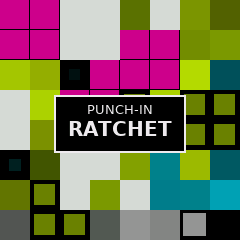
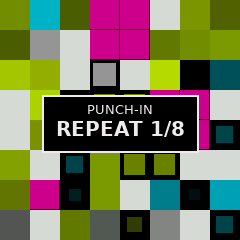
FILL on the second white key, machine-like fills, FREEZE takes the kick
- FILL replaces RATCHET (its speeding-up roll sounded cheesy): tapped, a fill on the next beat;
  held (or held by OCT), a new one every beat. Alongside the punch-ins; the kick keeps going.
- Fills, the automatic ones too, are now one beat, on the grid, never accelerating: a broken
  snare in 32nds, a perc run, hats in 32nds, snare and perc trading 16ths, snare triplets.
- FREEZE catches the kick in its room too, faded in and out over ~7 ms.
- Tests for FILL; manual, README, site and CLAUDE.md updated.

Claude-Session: https://claude.ai/code/session_01BZyVyPz8sguYwRVQyNrSw4

diff --git a/app/dsp/engine.c b/app/dsp/engine.c
@@ -4,7 +4,7 @@
  * 4 ms, filters' settings move in small steps every few samples. */
 #include "engine.h"
 
-const char *const PU_NAME[NUM_PU] = { "", "LOW-PASS", "RATCHET", "REPEAT 1/8", "REPEAT 1/16", "REPEAT 1/32", "GLITCH",
+const char *const PU_NAME[NUM_PU] = { "", "LOW-PASS", "FILL", "REPEAT 1/8", "REPEAT 1/16", "REPEAT 1/32", "GLITCH",
     "PITCH DOWN", "PITCH UP", "TAPE MASH", "REVERSE", "FREEZE", "SWELL", "CRUSH", "KILL KICK", "REPEAT 1/12", "HIGH-PASS" };
 
 /* the pool: the engine and the screen's canvas (29 KB) must fit the FM-1's 336 KB, with room for fm1-base's own */
@@ -180,16 +180,34 @@ static float hit_pan(Engine *e, int p)
     return clamp01(pan);
 }
 
-/* a fill: a bouncing ball (the gaps shrinking) on the snare, or a run down the perc, or the hats rolling */
+/* a fill: one beat, machine-like and on the grid (never speeding up): a broken snare in 32nds, a run down the perc in
+ * 16ths, hats in 32nds accented in threes, the snare and perc trading 16ths, or snare triplets building. The kick
+ * keeps the groove under it */
 static void fill_roll(Engine *e, uint32_t t0)
 {
-    int kind = rng_int(&e->rng, 3);
-    float off = 0, gap = 20.0f, v = 0.75f;
-    for (int k = 0; k < 14 && off < (float)TPB; k++) {
-        int p = kind == 0 ? P_SNARE : kind == 1 ? P_PERC : P_HATS;
-        HitP hp; make_hit(e, p, v, kind == 1 ? (float)(6 - k) : 0.0f, kind == 0 && (k & 1), &hp);
-        push_ev(&e->P[p], t0, off, &hp, hit_pan(e, p), 0);
-        off += gap; gap *= 0.8f; v *= kind == 2 ? 1.03f : 0.93f;
+    int kind = rng_int(&e->rng, 5);
+    switch (kind) {
+    case 0: for (int k = 0; k < 8; k++) if (k == 0 || rng_chance(&e->rng, 0.6f)) {
+            HitP hp; make_hit(e, P_SNARE, k % 2 ? 0.45f + 0.2f * rng_f(&e->rng) : 0.8f, 0, k % 4 == 3, &hp);
+            push_ev(&e->P[P_SNARE], t0, (float)(k * 12), &hp, hit_pan(e, P_SNARE), 0);
+        } break;
+    case 1: for (int k = 0; k < 4; k++) {
+            HitP hp; make_hit(e, P_PERC, 0.85f - 0.1f * (float)k, (float)(4 - 2 * k), 0, &hp);
+            push_ev(&e->P[P_PERC], t0, (float)(k * 24), &hp, hit_pan(e, P_PERC), 0);
+        } break;
+    case 2: for (int k = 0; k < 8; k++) {
+            HitP hp; make_hit(e, P_HATS, k % 3 == 0 ? 0.9f : 0.5f, 0, 0, &hp);
+            push_ev(&e->P[P_HATS], t0, (float)(k * 12), &hp, hit_pan(e, P_HATS), 0);
+        } break;
+    case 3: for (int k = 0; k < 4; k++) {
+            int p = k % 2 ? P_PERC : P_SNARE;
+            HitP hp; make_hit(e, p, 0.8f, p == P_PERC ? (float)(2 - k) : 0.0f, 0, &hp);
+            push_ev(&e->P[p], t0, (float)(k * 24), &hp, hit_pan(e, p), 0);
+        } break;
+    default: for (int k = 0; k < 6; k++) {
+            HitP hp; make_hit(e, P_SNARE, 0.4f + 0.1f * (float)k, 0, 0, &hp);
+            push_ev(&e->P[P_SNARE], t0, (float)(k * 16), &hp, hit_pan(e, P_SNARE), 0);
+        } break;
     }
     e->fill_until = t0 + TPB;
 }
@@ -385,6 +403,10 @@ void engine_block_begin(Engine *e, int nsub)
     for (int p = 0; p < NPARTS; p++) if (e->off_left[p] && --e->off_left[p] == 0 && e->midi) e->midi(0x08u | (0x80u | e->midi_ch) << 8 | (uint32_t)e->off_note[p] << 16);
     float span = r * (float)n, endf = e->frac + span;
     uint32_t end = e->tick + (uint32_t)endf;      /* (the block's last tick, whole) */
+    if (e->playing && e->fill_want) {           /* the FILL key: a fill on each beat while it's held, from the next */
+        uint32_t nb = (e->tick / TPB + 1u) * TPB;
+        if (nb != e->mfill_last && nb <= end + (uint32_t)LOOK + 1u) { e->mfill_last = nb; fill_roll(e, nb); }
+    }
     if (e->playing) {
         /* the bars turning */
         while (e->last_bar * BAR + BAR <= end) { e->last_bar++; bar_turned(e, e->last_bar); }
@@ -528,10 +550,10 @@ static float grain_rate(Engine *e)            /* a grain's speed: mostly as it w
 
 static void punch_engage(Engine *e, int pu)
 {
-    e->pu = pu; e->rpos = 0; e->ps0 = e->pw; e->rnext = 0; e->rat_left = 2;
+    e->pu = pu; e->rpos = 0; e->ps0 = e->pw; e->rnext = 0;
     float beat = 60.0f / e->bpm * SR, cap = (float)(PUNCH_BUF - 256);
-    /* div: of a bar (1/8 an eighth). RATCHET starts on an eighth and doubles, REVERSE plays an eighth backwards */
-    float div = pu == PU_REP8 || pu == PU_RATCHET || pu == PU_REVERSE || pu == PU_GLITCH ? 0.125f : pu == PU_REP16 ? 0.0625f
+    /* div: of a bar (1/8 an eighth). REVERSE plays an eighth backwards */
+    float div = pu == PU_REP8 || pu == PU_REVERSE || pu == PU_GLITCH ? 0.125f : pu == PU_REP16 ? 0.0625f
               : pu == PU_REP32 ? 0.03125f : pu == PU_REP12 ? 1.0f / 12.0f : 0.25f;
     e->rlen = fm_minf(beat * div * 4.0f, cap);
     if (pu == PU_MASH) { e->m_d = 0.012f * SR + 64.0f; e->m_x = e->m_tgt = 0; e->m_g = e->m_gt = 1.0f; e->m_cnt = (int)(0.05f * SR); e->m_lp[0] = e->m_lp[1] = 0; }
@@ -543,11 +565,11 @@ static void punch_engage(Engine *e, int pu)
         if (to > half) to = half;
         e->swell_len = e->swell_left = (int)to;
     }
-    /* the repeats, RATCHET, GLITCH and REVERSE are held to the grid: the slice starts on the last line of its own grid
+    /* the repeats, GLITCH and REVERSE are held to the grid: the slice starts on the last line of its own grid
      * (an eighth, a sixteenth...) before the key, so it loops in time with the groove however late it was pressed. The
      * memory already holds the slice up to now: it plays on as it is (nothing jumps) to the slice's end, then loops (one
      * unbroken stretch: no seam, no click). REVERSE plays the eighth before that line backwards, in step with the grid */
-    int slice = pu == PU_RATCHET || pu == PU_REP8 || pu == PU_REP16 || pu == PU_REP32 || pu == PU_REP12 || pu == PU_GLITCH || pu == PU_REVERSE;
+    int slice = pu == PU_REP8 || pu == PU_REP16 || pu == PU_REP32 || pu == PU_REP12 || pu == PU_GLITCH || pu == PU_REVERSE;
     float ph = 0;                                /* samples since the slice's grid line */
     if (slice && e->playing && e->rlen < cap) {
         uint32_t gt = (uint32_t)((float)TPB * 4.0f * div + 0.5f);   /* (its grid in ticks: 48 an eighth) */
@@ -643,6 +665,10 @@ void engine_block_mix(Engine *e, float *outL, float *outR)
         outL[i] = L; outR[i] = R;
         /* the room's input: through the gated room's pre-delay, held a moment at FREEZE (a punch-in) */
         float feed = 1.0f - fz * (1.0f - e->frz_feed);
+        /* FREEZE takes the kick in too (the kick is never sent to the room otherwise): while it's catching its moment,
+         * faded in and out over ~7 ms */
+        e->frz_k += ((e->pu == PU_FREEZE && !e->pu_rel && e->frz_feed > 0 ? 1.0f : 0.0f) - e->frz_k) * 0.003f;
+        if (e->frz_k > 1e-5f) { rl += kL * 0.7f * e->frz_k; rr += kR * 0.7f * e->frz_k; } else e->frz_k = 0;
         if (pre) {
             float m = (rl + rr) * 0.5f;
             e->room_buf[e->room_w] = to16(m);
@@ -801,10 +827,6 @@ void engine_block_mix(Engine *e, float *outL, float *outR)
                 e->rpos += 1.0f;
                 if (e->rpos >= len) {
                     e->rpos -= len;                /* (the fraction kept: hours of repeats stay on the grid) */
-                    if (pu == PU_RATCHET && --e->rat_left <= 0 && e->rlen > beat * 0.0625f * 1.5f) {
-                        e->rlen *= 0.5f; e->rat_left = 4;   /* RATCHET: eighths, sixteenths for a beat, 32nds for half, then 64ths */
-                        if (e->rpos >= e->rlen) e->rpos = 0;
-                    }
                     if (pu == PU_GLITCH) {        /* GLITCH: a new length each pass (within what it kept) */
                         static const float GL[5] = { 0.125f, 0.0625f, 0.03125f, 1.0f / 12.0f, 1.0f / 24.0f };
                         e->rpos = 0; e->rlen = fm_minf(beat * GL[rng_int(&e->rng, 5)] * 4.0f, (float)e->pu_cap);

diff --git a/app/app.c b/app/app.c
@@ -627,11 +627,11 @@ static void page_to(int pg)
 }
 
 /* ------------------------------------------------------------------ the keys: punch-ins and randomisers
- * White keys, low to high: HIGH-PASS, RATCHET, REPEAT 1/8, 1/12, 1/16, 1/32, GLITCH, PITCH DOWN, PITCH UP, TAPE MASH,
+ * White keys, low to high: HIGH-PASS, FILL, REPEAT 1/8, 1/12, 1/16, 1/32, GLITCH, PITCH DOWN, PITCH UP, TAPE MASH,
  * REVERSE, FREEZE, SWELL, CRUSH, KILL KICK, LOW-PASS. The latest held plays (the filters alongside, their own).
  * Black keys, in their groups: KICK's TONE, WEIGHT, ENTROPY; SNARE's WEIGHT, ENTROPY; PERC's TONE, WEIGHT, ENTROPY;
  * HATS' WEIGHT, ENTROPY; the top one every part's three. Held, each hit of the part takes new values. */
-static const uint8_t PU_KEY[16] = { PU_HPF, PU_RATCHET, PU_REP8, PU_REP12, PU_REP16, PU_REP32, PU_GLITCH, PU_PDOWN, PU_PUP, PU_MASH,
+static const uint8_t PU_KEY[16] = { PU_HPF, PU_FILL, PU_REP8, PU_REP12, PU_REP16, PU_REP32, PU_GLITCH, PU_PDOWN, PU_PUP, PU_MASH,
                                     PU_REVERSE, PU_FREEZE, PU_SWELL, PU_CRUSH, PU_KILL, PU_LPF };
 static const struct { int8_t part; uint8_t bits; } RND_KEY[11] = {
     { P_KICK, 1 }, { P_KICK, 2 }, { P_KICK, 4 }, { P_SNARE, 2 }, { P_SNARE, 4 }, { P_PERC, 1 }, { P_PERC, 2 }, { P_PERC, 4 },
@@ -682,12 +682,12 @@ static void keys_input(uint32_t keys, uint32_t btn)
     for (int i = 0; i < 16; i++) {
         int kk = WK[i]; uint32_t b = 1u << kk;
         if (kk >= NKEYS) continue;
-        int pu = PU_KEY[i], filt = pu == PU_HPF || pu == PU_LPF;
+        int pu = PU_KEY[i], filt = pu == PU_HPF || pu == PU_LPF || pu == PU_FILL;   /* (the filters and FILL: alongside the punch-in) */
         if ((keys & b) && !(ui.keys & b)) {      /* pressed */
             if (hold) {                          /* a hold: one punch-in held at a time (they never play together: pitch up and
                                                   * down would cancel, two loops fight), so it takes the place of the one
                                                   * before; the two filters are held alongside it */
-                if (!filt) for (int k = 1; k < 15; k++) if (k != i && (ui.lat_w >> k & 1u)) { ui.lat_w &= (uint16_t)~(1u << k); if (!(keys >> WK[k] & 1u)) pu_drop(k); }
+                if (!filt) for (int k = 2; k < 15; k++) if (k != i && (ui.lat_w >> k & 1u)) { ui.lat_w &= (uint16_t)~(1u << k); if (!(keys >> WK[k] & 1u)) pu_drop(k); }
                 ui.lat_w |= (uint16_t)(1u << i); ui.lat_w_until[i] = hold == 2 ? 0 : loop_end();
                 ui.lat_w_dep[i] = key_depth(kk, i == 0); ui.oct_used[hold - 1] = 1;
                 pop(hold == 2 ? "HELD" : "HELD TO THE LOOP'S END", PU_NAME[pu], C_TXT);
@@ -703,6 +703,7 @@ static void keys_input(uint32_t keys, uint32_t btn)
     int top = ui.pu_n ? ui.pu_order[ui.pu_n - 1] : -1;
     eng.pu_want = top >= 0 ? PU_KEY[top] : 0;
     eng.pu_press = top < 0 ? 0.0f : keys >> WK[top] & 1u ? key_depth(WK[top], 1) : ui.lat_w_dep[top];   /* (how hard: TAPE MASH's depth) */
+    eng.fill_want = (keys >> WK[1] & 1u) || (ui.lat_w >> 1 & 1u);   /* FILL: a fill each beat while held */
     eng.pu_hpw = keys >> WK[0] & 1u ? 1.0f + key_depth(WK[0], 1) : ui.lat_w & 1u ? 1.0f + ui.lat_w_dep[0] : 0.0f;          /* (the bottom key: pressure) */
     eng.pu_lpw = keys >> WK[15] & 1u ? 1.0f + key_depth(WK[15], 0) : ui.lat_w >> 15 & 1u ? 1.0f + ui.lat_w_dep[15] : 0.0f;   /* (the top: how hard it was struck) */
     uint8_t bits[NPARTS] = { 0, 0, 0, 0 }; float dep[NPARTS] = { 0, 0, 0, 0 };
@@ -1176,6 +1177,7 @@ int app_expect(const char *what, int *got)
     else if (!strcmp(what, "hist")) *got = hist_n;
     else if (!strcmp(what, "pu")) *got = eng.pu;
     else if (!strcmp(what, "pu_want")) *got = eng.pu_want;
+    else if (!strcmp(what, "fill_want")) *got = eng.fill_want;
     else if (!strcmp(what, "hpf")) *got = eng.pu_hpw > 0;
     else if (!strcmp(what, "lpf")) *got = eng.pu_lpw > 0;
     else if (!strcmp(what, "heard")) *got = (int)eng.ai_notes;

diff --git a/app/dsp/engine.h b/app/dsp/engine.h
@@ -39,7 +39,7 @@ typedef struct {
 #define DLY_BUF 16384                    /* the delay: each side's line (0.37 s) */
 #define PUNCH_BUF 16384                  /* the punch-ins' memory: the last 0.37 s, stereo (an eighth down to 82 BPM) */
 
-enum { PU_NONE, PU_LPF, PU_RATCHET, PU_REP8, PU_REP16, PU_REP32, PU_GLITCH, PU_PDOWN, PU_PUP, PU_MASH, PU_REVERSE,
+enum { PU_NONE, PU_LPF, PU_FILL, PU_REP8, PU_REP16, PU_REP32, PU_GLITCH, PU_PDOWN, PU_PUP, PU_MASH, PU_REVERSE,
        PU_FREEZE, PU_SWELL, PU_CRUSH, PU_KILL, PU_REP12, PU_HPF, NUM_PU };
 extern const char *const PU_NAME[NUM_PU];
 
@@ -72,7 +72,7 @@ struct Engine {
     int pu, pu_rel; float pu_mix; int16_t pb[2][PUNCH_BUF]; int pw, ps0, pu_frozen;
     float rpos, rlen, rnext; float lp_c, hp_c; Svf plp[2], php[2]; int pf_cnt;
     int pu_cap, pu_fwd, rec_since;       /* capturing forward: how much so far; the memory's clean run since it last froze */
-    int rat_left;                        /* RATCHET: passes left before it doubles its speed */
+    volatile int fill_want; uint32_t mfill_last;   /* the FILL key held (or held by OCT): a fill each beat; the last beat filled */
     float m_d, m_x, m_tgt, m_g, m_gt, m_wow, m_flt, m_lp[2]; int m_cnt;   /* TAPE MASH: the tape's delay, a catch, a dropout, wow, flutter */
     Shifter shf[2]; float crush_h, crush_v[2]; float kill_g; float frz; int swell_left, swell_len;
     /* MIDI out */
@@ -94,7 +94,7 @@ struct Engine {
     uint32_t kick_bar, kick_last; int kick_in_bar;   /* the kick held firm: its hits this bar, its last step */
     uint32_t last_bar, fill_until; int nblk;
     uint8_t off_note[NPARTS]; int off_left[NPARTS];   /* MIDI out: each part's note, blocks until its note-off */
-    float frz_feed, sw_dip;
+    float frz_feed, sw_dip, frz_k;   /* (frz_k: the kick into FREEZE's room, glided)*/
     /* the black keys: randomisers, a new value each hit (sample and hold): which of TONE, WEIGHT, ENTROPY (bits 0-2)
      * each part has held, and how far (0..1) */
     volatile uint8_t rnd_bits[NPARTS]; volatile float rnd_depth[NPARTS];

diff --git a/app/tools/render.c b/app/tools/render.c
@@ -128,7 +128,7 @@ static void run(const char *path, float secs, int punch)
         { 8.3f, PU_REP8 }, { 10, 0 }, { 12.15f, PU_REP16 }, { 13.4f, PU_REP32 }, { 14, 0 }, { 16, PU_PDOWN }, { 18, 0 }, { 20, PU_PUP }, { 22, 0 },
         { 24, PU_MASH }, { 27, 0 }, { 28.35f, PU_REVERSE }, { 30, 0 }, { 32.2f, PU_GLITCH }, { 35, 0 }, { 36, PU_FREEZE }, { 40, 0 },
         { 43.3f, PU_SWELL }, { 44.2f, 0 }, { 46, PU_CRUSH }, { 48, 0 }, { 50, PU_KILL }, { 52, 0 }, { 54.1f, PU_REP12 }, { 56, 0 },
-        { 58, -1 }, { 61, -2 }, { 64, 0 }, { 68.4f, PU_RATCHET }, { 71.6f, 0 } };   /* (pressed off the beat: they keep to the grid) */
+        { 58, -1 }, { 61, -2 }, { 64, 0 }, { 64, 0 }, { 66.3f, -3 }, { 66.6f, -4 }, { 69.2f, -3 }, { 72.9f, -4 } };   /* (FILL: tapped once, then held three beats) */   /* (pressed off the beat: they keep to the grid) */
     int next = 0; float last_beat = -1;
     clock_t t0 = clock();
     for (long done = 0; done < frames; done += BLKN) {
@@ -156,6 +156,7 @@ static void run(const char *path, float secs, int punch)
             while (next < (int)(sizeof PLAN / sizeof PLAN[0]) && eng.beat >= PLAN[next].beat) {
                 int pu = PLAN[next].pu;
                 if (pu == -1) { eng.pu_want = 0; eng.pu_hpw = 1.4f; } else if (pu == -2) { eng.pu_hpw = 0; eng.pu_lpw = 1.5f; }
+                else if (pu == -3) eng.fill_want = 1; else if (pu == -4) eng.fill_want = 0;
                 else { eng.pu_want = pu; eng.pu_lpw = eng.pu_hpw = 0; }
                 next++;
             }
@@ -310,7 +311,7 @@ int main(int argc, char **argv)
     if (!strcmp(argv[1], "punch") && argc > 3) {
         if (strcmp(argv[2], "default")) groove_roll(&gr, (uint32_t)strtoul(argv[2], 0, 0), 1);
         apply_env(&gr); describe(&gr);
-        run(argv[3], 74.0f * 60.0f / (float)(gr.tempo + 40), 1);
+        run(argv[3], 76.0f * 60.0f / (float)(gr.tempo + 40), 1);
         return 0;
     }
     if (argc < 4) return 2;

diff --git a/app/docs/MANUAL.md b/app/docs/MANUAL.md
@@ -216,8 +216,9 @@ The velocities have a shape of their own, dealt by REC: the bar's weight (the on
 four, the offbeats softest; the kick leaning on it most), an accent every three, five or seven sixteenths drifting
 across the bar, and a slow swell over a few bars.
 
-Every eight bars (every four, EVOLVE well up) a fill may come: a roll that speeds up like a bouncing ball, a run down
-the perc, or the hats rolling.
+Every eight bars (every four, EVOLVE well up) a fill may come on the last beat, machine-like and on the grid: a broken
+snare in 32nds, a run down the perc, hats in 32nds, the snare and perc trading 16ths, or snare triplets building. The
+FILL key (section 13) plays one whenever you like.
 
 ## 10. Effects
 
@@ -277,7 +278,7 @@ sixteenths (REC deals it: mostly straight). TEMPO is the groove's own (shown as 
 | Key | Punch-in |
 |---|---|
 | 1 (bottom) | HIGH-PASS, from about 350 Hz; press harder for more |
-| 2 | RATCHET: a roll speeding up, eighths to sixteenths to 32nds to 64ths |
+| 2 | FILL: a fill on the next beat; held, a new one every beat (the kick keeps going under it) |
 | 3 | REPEAT 1/8 |
 | 4 | REPEAT 1/12 (triplets) |
 | 5 | REPEAT 1/16 |
@@ -287,13 +288,16 @@ sixteenths (REC deals it: mostly straight). TEMPO is the groove's own (shown as 
 | 9 | PITCH UP an octave |
 | 10 | TAPE MASH: a chewed tape, held: wobbling, catching, saturated and dull, with dropouts; press harder for more |
 | 11 | REVERSE: the eighth before, backwards, in time |
-| 12 | FREEZE: the room held as an endless wash, the groove going on over it |
+| 12 | FREEZE: the room held as an endless wash (the kick in it too), the groove going on over it |
 | 13 | SWELL: the last moments backwards, swelling into the next beat |
 | 14 | CRUSH |
 | 15 | KILL KICK |
 | 16 (top) | LOW-PASS, from about 1.5 kHz; strike it harder for more |
 
-The repeats, RATCHET, GLITCH and REVERSE are held to the grid: however late you press, the loop starts on the last
+FILL plays alongside the punch-ins and filters. Its fills are machine-like and on the grid: a broken snare in
+32nds, a run down the perc, hats in 32nds, the snare and perc trading 16ths, or snare triplets building.
+
+The repeats, GLITCH and REVERSE are held to the grid: however late you press, the loop starts on the last
 line of its own grid (an eighth, a sixteenth...) and repeats in time with the groove.
 
 **Holds.** Hold **OCT-** as you press a key and it stays on to the end of the loop (the kick's pattern, at least a

diff --git a/CLAUDE.md b/CLAUDE.md
@@ -40,12 +40,13 @@ Generative at its core, with macros across the main features, as After Images ha
   strongest), a drifting accent cycle of 3, 5 or 7 sixteenths, a slow wave; harder hits brighter and heavier.
 - First iteration: IDM in feel and machine-like.
 - Generators: Turing machines for the high percussion (hats, shakers); Euclidean rhythms, a Grids-style groove map,
-  polymeters, bouncing-ball rolls, probability and ghost notes.
+  polymeters, on-grid fills (no accelerating bouncing-ball rolls), probability and ghost notes.
 - Effects, in three places:
   - The white keys are always punch-ins, OP-XY-style, for performance: a high-pass (from about 350 Hz)
     on the bottom white key and a low-pass on the top one, each faded in and out so it never clicks; pitch up and
-    pitch down (the owner especially likes these), a ratchet (eighths to 64ths), repeats, glitch, tape mash (a held, chewed-tape wobble), reverse, a
-    room freeze, a reverse swell, crush, kill kick. Repeats, ratchet, glitch and reverse are held to the grid.
+    pitch down (the owner especially likes these), FILL on the second white key (a machine-like, on-grid fill each
+    beat while held; never accelerating rolls, which the owner finds cheesy), repeats, glitch, tape mash (a held, chewed-tape wobble), reverse, a
+    room freeze, a reverse swell, crush, kill kick. Repeats, glitch and reverse are held to the grid. FREEZE takes the kick in too.
     Holds: OCT- held as a key (white or black) is pressed holds it to the loop's end, OCT+ for good; pressed again it
     is let go; OCT+ alone lets every hold go. One punch-in at a time (a new hold replaces the old), the filters and
     black keys alongside. Groove history (REC's replaced grooves) is on HOME held + OCT- / OCT+.

diff --git a/README.md b/README.md
@@ -26,12 +26,12 @@ Free and open source (MPL-2.0). By [TheGrizard](https://github.com/TheGrizard), 
 - **Step components.** Like an Elektron's or an OP-Z's: ratchets, nudges, conditions (1:2, 3:4, FILL), probabilities,
   ghosts, open hats, pitches, accents. Each switches on at its own point on EVOLVE.
 - **A groove that breathes.** Velocities shaped by the bar's weight, a drifting accent cycle and a slow swell; WARP a
-  humaniser; bouncing-ball fills.
+  humaniser; machine-like fills, and a FILL key.
 - **Eighteen drum engines**: 808, MEMBRANE, BOX, FM KICK, CLAP, WIRES, GRAIN, CRACK, BENT (circuit-bent), MATERIAL,
   FM PERC, STRING, FOLEY (boxes, wood, footsteps, drags), METAL, DUST, DIGITAL, VOX, CLICK. WEIGHT sets a hit's
   fullness; ENTROPY its attack (a soft start, a click, a snap, a zap, a metal edge, a crushed stutter), carried
   through the whole hit; MOOD plays the kit heavy and long or bright and short.
-- **Punch-ins on the white keys** (high-pass, ratchet, repeats, glitch, pitch down and up, tape mash, reverse, freeze, swell,
+- **Punch-ins on the white keys** (high-pass, a fill key, repeats, glitch, pitch down and up, tape mash, reverse, freeze, swell,
   crush, kill kick, low-pass; the repeats held to the grid) and **randomisers on the black keys** (each part's colours thrown at every hit).
 - **The kit's bus.** Sends a part: ROOM, DELAY, PAN, DUCK. A tape compressor with the kick wired to its sidechain
   (CLEAN or TAPE SMASH); a room that is ROOM, GATED, REVERSE or FREEZE; a delay CLEAN or GRANULAR, with GLITCH.

diff --git a/app/site/landing.md b/app/site/landing.md
@@ -20,7 +20,7 @@ Made to play under [After Images](https://TheGrizard.github.io/After-Images/).
   toy, wood and glass, strings, foley (boxes, wood, footsteps, drags), metal clusters, crackle, digital noise, an
   almost-vocal hat and impulse clicks. WEIGHT sets the fullness, ENTROPY the attack, MOOD heavy and long to bright
   and short.
-- **Punch-ins on the keys:** filters, a ratchet and repeats held to the grid, glitch, pitch up and down, tape mash, reverse, freeze, swell, crush.
+- **Punch-ins on the keys:** filters, a fill key, repeats held to the grid, glitch, pitch up and down, tape mash, reverse, freeze, swell, crush.
 - **Randomisers on the black keys:** every hit of a part thrown somewhere new while you hold one.
 - **A kit bus:** a kick-sidechained tape compressor, a room that gates, reverses and freezes, a glitch delay, pans.
 - **A partner to After Images:** follows its clock to the beat and bar and listens to its notes.
